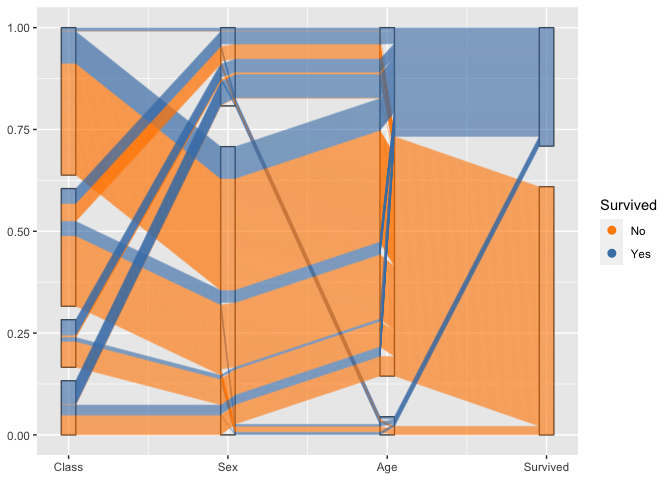
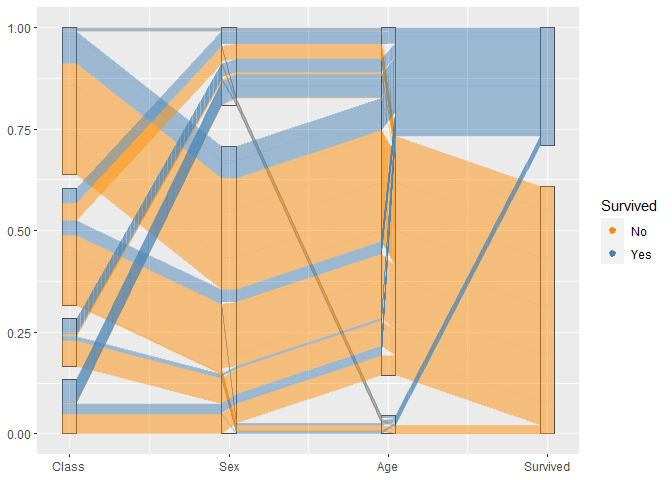
readme update

diff --git a/README.md b/README.md
@@ -1,7 +1,7 @@
 ---
 title: "Generalized parallel coordinate plots with ggpcp"
 author: "Yawei Ge, Heike Hofmann"
-date: "February 18, 2020"
+date: "September 19, 2020"
 output: 
   html_document:
     keep_md: true
@@ -126,7 +126,7 @@ By setting break points between blocks of categorical variables, we can focus on
 ```r
 titanic %>% 
   ggplot(aes(vars = vars(1:4))) + 
-  geom_pcp(aes(colour = Survived), alpha = 0.1, breakpoint=2:3) +
+  geom_pcp(aes(colour = Survived), alpha = 0.1, resort=2:3) +
   scale_colour_manual(values=c("darkorange", "steelblue")) +
   guides(colour=guide_legend(override.aes = list(alpha=1))) 
 ```
@@ -141,7 +141,7 @@ titanic %>%
   ggplot(aes(vars=vars(1:4))) + 
   geom_pcp_box(boxwidth=0.1, fill=NA) +
   geom_pcp(aes(colour = Survived), alpha = 0.1, 
-            boxwidth=0.1, breakpoint=2:3) +
+            boxwidth=0.1, resort=2:3) +
   scale_colour_manual(values=c("darkorange", "steelblue")) +
   guides(colour=guide_legend(override.aes = list(alpha=1))) 
 ```
@@ -173,7 +173,7 @@ mtcars %>%
          carb = factor(carb)) %>%
   ggplot(aes(vars = vars(1:ncol(mtcars)))) +
   geom_pcp_box(boxwidth=0.1, fill=NA, colour="grey70") +
-  geom_pcp(aes(colour = mpg), boxwidth=0.1, breakpoint=9:10, size=1, alpha =0.9) +
+  geom_pcp(aes(colour = mpg), boxwidth=0.1, resort=9:10, size=1, alpha =0.9) +
   geom_pcp_text(boxwidth=0.1) +
   scale_colour_gradient2("mpg", mid="grey50", midpoint = 20) +
   theme_bw()
@@ -198,6 +198,9 @@ We grouped locations using all January and July measurements of all climate vari
 The resulting clusters can then be summarized visually. What we see is that the clusters have a very distinct geographic pattern (tile plot). 
 
 
+```
+## `summarise()` regrouping output by 'id', 'variable' (override with `.groups` argument)
+```
 
 
 ```r
